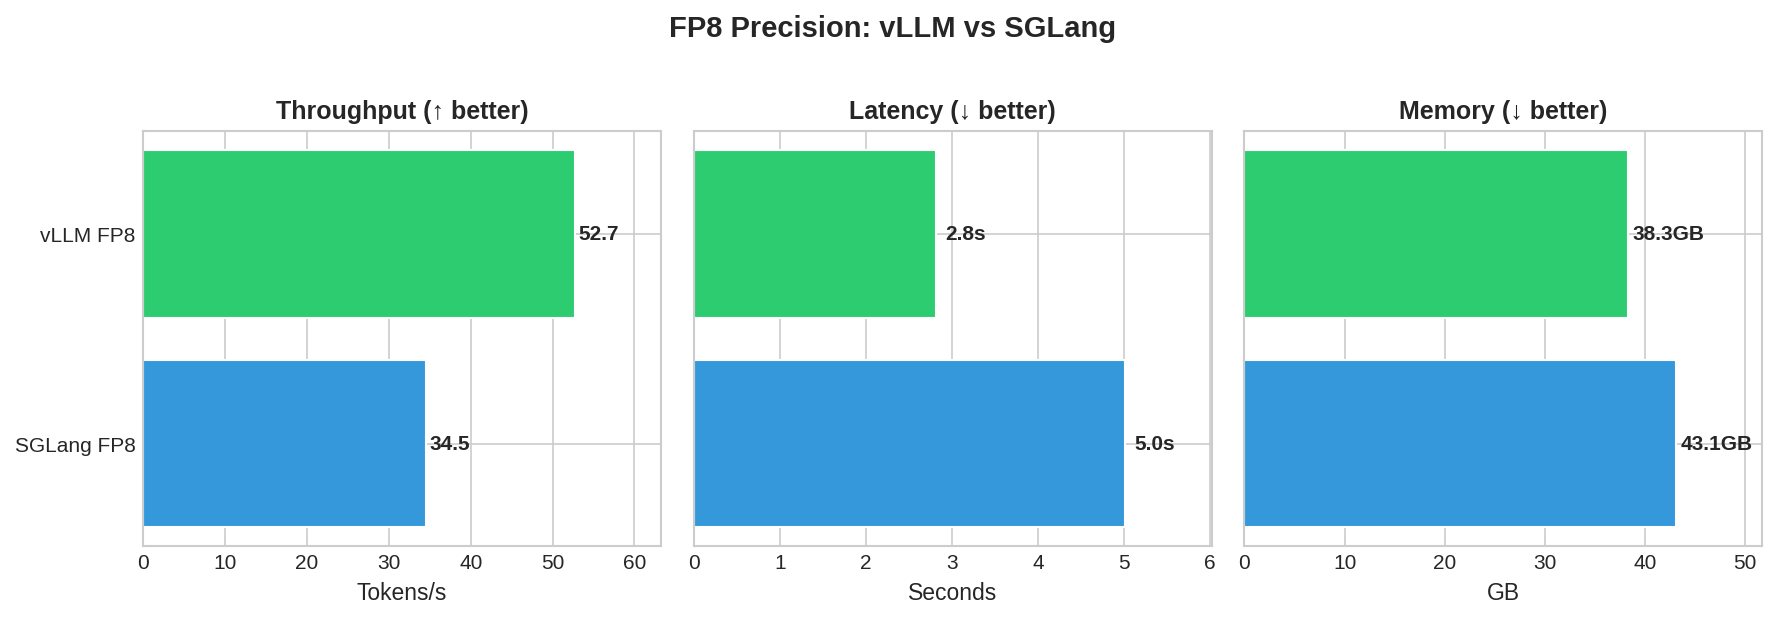
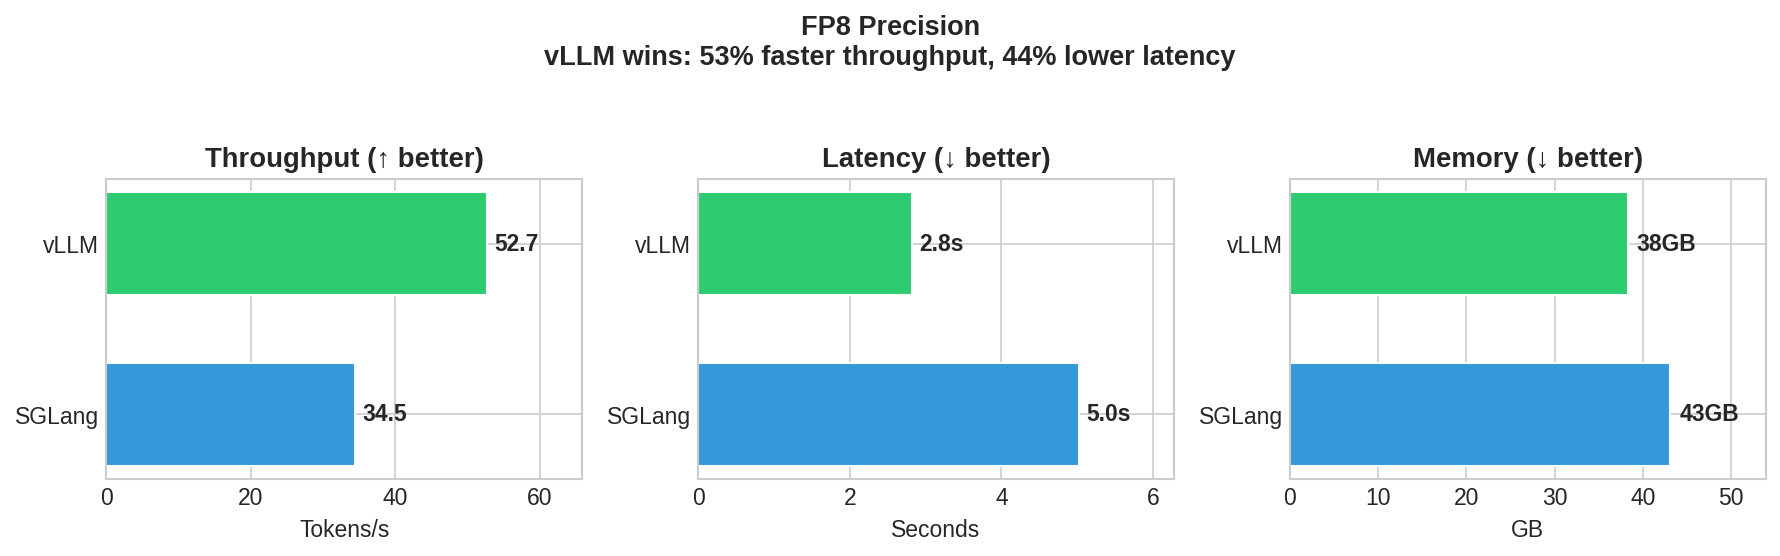
Fix graphs: remove single-bar charts, fix label overlaps
- Remove useless 8-bit and 4-bit single-bar graphs
- Fix efficiency scatter label positioning (no more overlaps)
- Add winner labels to FP8 and BF16 comparison charts
- Simplify backend names in comparison charts (vLLM vs SGLang)
- Add quadrant labels (BEST/WORST) to efficiency scatter

diff --git a/scripts/generate_graphs.py b/scripts/generate_graphs.py
@@ -6,95 +6,96 @@ import numpy as np
 
 # Benchmark data by precision category
 data_fp8 = {
-    'vLLM FP8': {'throughput': 52.7, 'latency': 2819, 'memory': 38.3},
-    'SGLang FP8': {'throughput': 34.5, 'latency': 5017, 'memory': 43.1},
+    'vLLM': {'throughput': 52.7, 'latency': 2.82, 'memory': 38.3},
+    'SGLang': {'throughput': 34.5, 'latency': 5.02, 'memory': 43.1},
 }
 
 data_bf16 = {
-    'vLLM BF16': {'throughput': 38.6, 'latency': 3658, 'memory': 38.2},
-    'SGLang BF16': {'throughput': 29.8, 'latency': 5458, 'memory': 43.1},
-    'Ollama F16': {'throughput': 6.6, 'latency': 4423, 'memory': 12.1},
+    'vLLM': {'throughput': 38.6, 'latency': 3.66, 'memory': 38.2},
+    'SGLang': {'throughput': 29.8, 'latency': 5.46, 'memory': 43.1},
+    'Ollama F16': {'throughput': 6.6, 'latency': 4.42, 'memory': 12.1},
 }
 
-data_8bit = {
-    'Ollama Q8': {'throughput': 8.0, 'latency': 4081, 'memory': 8.4},
-}
-
-data_4bit = {
-    'Ollama Q4': {'throughput': 52.6, 'latency': 4891, 'memory': 13.8},
-}
-
-# All data combined
-data_all = {
-    'vLLM FP8': {'throughput': 52.7, 'latency': 2819, 'memory': 38.3, 'precision': 'FP8'},
-    'Ollama Q4': {'throughput': 52.6, 'latency': 4891, 'memory': 13.8, 'precision': '4-bit'},
-    'vLLM BF16': {'throughput': 38.6, 'latency': 3658, 'memory': 38.2, 'precision': 'BF16'},
-    'SGLang FP8': {'throughput': 34.5, 'latency': 5017, 'memory': 43.1, 'precision': 'FP8'},
-    'SGLang BF16': {'throughput': 29.8, 'latency': 5458, 'memory': 43.1, 'precision': 'BF16'},
-    'Ollama Q8': {'throughput': 8.0, 'latency': 4081, 'memory': 8.4, 'precision': '8-bit'},
-    'Ollama F16': {'throughput': 6.6, 'latency': 4423, 'memory': 12.1, 'precision': 'BF16'},
-}
-
-# Color scheme by backend
-colors = {
-    'vLLM FP8': '#2ecc71',
-    'vLLM BF16': '#27ae60',
-    'SGLang FP8': '#3498db',
-    'SGLang BF16': '#2980b9',
-    'Ollama Q4': '#e74c3c',
-    'Ollama Q8': '#c0392b',
-    'Ollama F16': '#e67e22',
-}
+# All data combined for overall chart
+data_all = [
+    ('vLLM FP8', 52.7, 2.82, 38.3, '#2ecc71'),
+    ('Ollama Q4', 52.6, 4.89, 13.8, '#e74c3c'),
+    ('vLLM BF16', 38.6, 3.66, 38.2, '#27ae60'),
+    ('SGLang FP8', 34.5, 5.02, 43.1, '#3498db'),
+    ('SGLang BF16', 29.8, 5.46, 43.1, '#2980b9'),
+    ('Ollama Q8', 8.0, 4.08, 8.4, '#c0392b'),
+    ('Ollama F16', 6.6, 4.42, 12.1, '#e67e22'),
+]
 
 plt.style.use('seaborn-v0_8-whitegrid')
+plt.rcParams['font.size'] = 11
 
 
-def create_precision_chart(data, title, filename, figsize=(8, 4)):
-    """Create a combined throughput + latency chart for a precision category."""
+def create_comparison_chart(data, title, filename, winner_label=None):
+    """Create a comparison chart for a precision category."""
     backends = list(data.keys())
     throughputs = [data[b]['throughput'] for b in backends]
-    latencies = [data[b]['latency'] / 1000 for b in backends]
+    latencies = [data[b]['latency'] for b in backends]
     memories = [data[b]['memory'] for b in backends]
-    bar_colors = [colors[b] for b in backends]
 
-    fig, axes = plt.subplots(1, 3, figsize=(figsize[0] * 1.5, figsize[1]), dpi=150)
+    # Colors: green for vLLM (winner), blue for SGLang, orange for Ollama
+    colors = []
+    for b in backends:
+        if 'vLLM' in b:
+            colors.append('#2ecc71')
+        elif 'SGLang' in b:
+            colors.append('#3498db')
+        else:
+            colors.append('#e67e22')
+
+    fig, axes = plt.subplots(1, 3, figsize=(12, 3.5), dpi=150)
+
+    # Sort by throughput for display
+    sorted_idx = np.argsort(throughputs)[::-1]
+    sorted_backends = [backends[i] for i in sorted_idx]
+    sorted_throughputs = [throughputs[i] for i in sorted_idx]
+    sorted_latencies = [latencies[i] for i in sorted_idx]
+    sorted_memories = [memories[i] for i in sorted_idx]
+    sorted_colors = [colors[i] for i in sorted_idx]
 
     # Throughput chart
     ax1 = axes[0]
-    bars1 = ax1.barh(backends, throughputs, color=bar_colors, edgecolor='white')
-    for bar, val in zip(bars1, throughputs):
-        ax1.text(val + 0.5, bar.get_y() + bar.get_height()/2, f'{val:.1f}',
-                 va='center', fontsize=10, fontweight='bold')
-    ax1.set_xlabel('Tokens/s', fontsize=11)
-    ax1.set_title('Throughput (↑ better)', fontsize=12, fontweight='bold')
-    ax1.set_xlim(0, max(throughputs) * 1.2)
+    bars1 = ax1.barh(sorted_backends, sorted_throughputs, color=sorted_colors, edgecolor='white', height=0.6)
+    for bar, val in zip(bars1, sorted_throughputs):
+        ax1.text(val + 1, bar.get_y() + bar.get_height()/2, f'{val:.1f}',
+                 va='center', fontsize=11, fontweight='bold')
+    ax1.set_xlabel('Tokens/s')
+    ax1.set_title('Throughput (↑ better)', fontweight='bold')
+    ax1.set_xlim(0, max(sorted_throughputs) * 1.25)
     ax1.invert_yaxis()
 
     # Latency chart
     ax2 = axes[1]
-    bars2 = ax2.barh(backends, latencies, color=bar_colors, edgecolor='white')
-    for bar, val in zip(bars2, latencies):
+    bars2 = ax2.barh(sorted_backends, sorted_latencies, color=sorted_colors, edgecolor='white', height=0.6)
+    for bar, val in zip(bars2, sorted_latencies):
         ax2.text(val + 0.1, bar.get_y() + bar.get_height()/2, f'{val:.1f}s',
-                 va='center', fontsize=10, fontweight='bold')
-    ax2.set_xlabel('Seconds', fontsize=11)
-    ax2.set_title('Latency (↓ better)', fontsize=12, fontweight='bold')
-    ax2.set_xlim(0, max(latencies) * 1.2)
+                 va='center', fontsize=11, fontweight='bold')
+    ax2.set_xlabel('Seconds')
+    ax2.set_title('Latency (↓ better)', fontweight='bold')
+    ax2.set_xlim(0, max(sorted_latencies) * 1.25)
     ax2.invert_yaxis()
-    ax2.set_yticklabels([])
 
     # Memory chart
     ax3 = axes[2]
-    bars3 = ax3.barh(backends, memories, color=bar_colors, edgecolor='white')
-    for bar, val in zip(bars3, memories):
-        ax3.text(val + 0.5, bar.get_y() + bar.get_height()/2, f'{val:.1f}GB',
-                 va='center', fontsize=10, fontweight='bold')
-    ax3.set_xlabel('GB', fontsize=11)
-    ax3.set_title('Memory (↓ better)', fontsize=12, fontweight='bold')
-    ax3.set_xlim(0, max(memories) * 1.2)
+    bars3 = ax3.barh(sorted_backends, sorted_memories, color=sorted_colors, edgecolor='white', height=0.6)
+    for bar, val in zip(bars3, sorted_memories):
+        ax3.text(val + 1, bar.get_y() + bar.get_height()/2, f'{val:.0f}GB',
+                 va='center', fontsize=11, fontweight='bold')
+    ax3.set_xlabel('GB')
+    ax3.set_title('Memory (↓ better)', fontweight='bold')
+    ax3.set_xlim(0, max(sorted_memories) * 1.25)
     ax3.invert_yaxis()
-    ax3.set_yticklabels([])
 
-    fig.suptitle(title, fontsize=14, fontweight='bold', y=1.02)
+    if winner_label:
+        fig.suptitle(f'{title}\n{winner_label}', fontsize=13, fontweight='bold', y=1.05)
+    else:
+        fig.suptitle(title, fontsize=13, fontweight='bold', y=1.02)
+
     plt.tight_layout()
     plt.savefig(f'assets/{filename}', bbox_inches='tight', facecolor='white')
     plt.close()
@@ -103,49 +104,46 @@ def create_precision_chart(data, title, filename, figsize=(8, 4)):
 
 def create_overall_comparison():
     """Create overall comparison chart sorted by throughput."""
-    # Sort by throughput
-    sorted_backends = sorted(data_all.keys(), key=lambda x: data_all[x]['throughput'], reverse=True)
-    throughputs = [data_all[b]['throughput'] for b in sorted_backends]
-    latencies = [data_all[b]['latency'] / 1000 for b in sorted_backends]
-    memories = [data_all[b]['memory'] for b in sorted_backends]
-    bar_colors = [colors[b] for b in sorted_backends]
-
     fig, axes = plt.subplots(1, 3, figsize=(14, 5), dpi=150)
+
+    backends = [d[0] for d in data_all]
+    throughputs = [d[1] for d in data_all]
+    latencies = [d[2] for d in data_all]
+    memories = [d[3] for d in data_all]
+    colors = [d[4] for d in data_all]
 
     # Throughput
     ax1 = axes[0]
-    bars1 = ax1.barh(sorted_backends, throughputs, color=bar_colors, edgecolor='white')
+    bars1 = ax1.barh(backends, throughputs, color=colors, edgecolor='white', height=0.7)
     for bar, val in zip(bars1, throughputs):
-        ax1.text(val + 0.5, bar.get_y() + bar.get_height()/2, f'{val:.1f}',
-                 va='center', fontsize=9, fontweight='bold')
-    ax1.set_xlabel('Tokens/s', fontsize=11)
-    ax1.set_title('Throughput (↑ better)', fontsize=12, fontweight='bold')
-    ax1.set_xlim(0, max(throughputs) * 1.15)
+        ax1.text(val + 1, bar.get_y() + bar.get_height()/2, f'{val:.1f}',
+                 va='center', fontsize=10, fontweight='bold')
+    ax1.set_xlabel('Tokens/s')
+    ax1.set_title('Throughput (↑ better)', fontweight='bold')
+    ax1.set_xlim(0, max(throughputs) * 1.2)
     ax1.invert_yaxis()
 
     # Latency
     ax2 = axes[1]
-    bars2 = ax2.barh(sorted_backends, latencies, color=bar_colors, edgecolor='white')
+    bars2 = ax2.barh(backends, latencies, color=colors, edgecolor='white', height=0.7)
     for bar, val in zip(bars2, latencies):
         ax2.text(val + 0.1, bar.get_y() + bar.get_height()/2, f'{val:.1f}s',
-                 va='center', fontsize=9, fontweight='bold')
-    ax2.set_xlabel('Seconds', fontsize=11)
-    ax2.set_title('Latency (↓ better)', fontsize=12, fontweight='bold')
-    ax2.set_xlim(0, max(latencies) * 1.15)
+                 va='center', fontsize=10, fontweight='bold')
+    ax2.set_xlabel('Seconds')
+    ax2.set_title('Latency (↓ better)', fontweight='bold')
+    ax2.set_xlim(0, max(latencies) * 1.2)
     ax2.invert_yaxis()
-    ax2.set_yticklabels([])
 
     # Memory
     ax3 = axes[2]
-    bars3 = ax3.barh(sorted_backends, memories, color=bar_colors, edgecolor='white')
+    bars3 = ax3.barh(backends, memories, color=colors, edgecolor='white', height=0.7)
     for bar, val in zip(bars3, memories):
-        ax3.text(val + 0.5, bar.get_y() + bar.get_height()/2, f'{val:.1f}GB',
-                 va='center', fontsize=9, fontweight='bold')
-    ax3.set_xlabel('GB', fontsize=11)
-    ax3.set_title('Memory (↓ better)', fontsize=12, fontweight='bold')
-    ax3.set_xlim(0, max(memories) * 1.15)
+        ax3.text(val + 1, bar.get_y() + bar.get_height()/2, f'{val:.0f}GB',
+                 va='center', fontsize=10, fontweight='bold')
+    ax3.set_xlabel('GB')
+    ax3.set_title('Memory (↓ better)', fontweight='bold')
+    ax3.set_xlim(0, max(memories) * 1.2)
     ax3.invert_yaxis()
-    ax3.set_yticklabels([])
 
     fig.suptitle('Overall Comparison (sorted by throughput)', fontsize=14, fontweight='bold', y=1.02)
     plt.tight_layout()
@@ -158,31 +156,47 @@ def create_efficiency_chart():
     """Create efficiency scatter plot."""
     fig, ax = plt.subplots(figsize=(10, 6), dpi=150)
 
-    for backend, d in data_all.items():
-        ax.scatter(d['memory'], d['throughput'], s=200, c=colors[backend],
-                   label=backend, edgecolors='white', linewidth=1.5, zorder=3)
+    for name, throughput, latency, memory, color in data_all:
+        ax.scatter(memory, throughput, s=300, c=color, edgecolors='white', linewidth=2, zorder=3)
 
-    # Add labels
-    for backend, d in data_all.items():
-        offset_x = 1 if d['memory'] < 30 else -8
-        offset_y = 1.5 if d['throughput'] > 20 else -2
-        ax.annotate(backend, (d['memory'], d['throughput']),
-                    xytext=(offset_x, offset_y), textcoords='offset points',
-                    fontsize=9, fontweight='bold')
+        # Position labels to avoid overlap
+        if name == 'Ollama Q4':
+            ax.annotate(name, (memory, throughput), xytext=(-60, 10), textcoords='offset points',
+                        fontsize=10, fontweight='bold')
+        elif name == 'vLLM FP8':
+            ax.annotate(name, (memory, throughput), xytext=(10, 5), textcoords='offset points',
+                        fontsize=10, fontweight='bold')
+        elif name == 'vLLM BF16':
+            ax.annotate(name, (memory, throughput), xytext=(10, -5), textcoords='offset points',
+                        fontsize=10, fontweight='bold')
+        elif name in ['SGLang FP8', 'SGLang BF16']:
+            offset = 5 if 'FP8' in name else -15
+            ax.annotate(name, (memory, throughput), xytext=(10, offset), textcoords='offset points',
+                        fontsize=10, fontweight='bold')
+        elif name == 'Ollama Q8':
+            ax.annotate(name, (memory, throughput), xytext=(10, 5), textcoords='offset points',
+                        fontsize=10, fontweight='bold')
+        elif name == 'Ollama F16':
+            ax.annotate(name, (memory, throughput), xytext=(10, -10), textcoords='offset points',
+                        fontsize=10, fontweight='bold')
 
     ax.set_xlabel('Peak GPU Memory (GB)', fontsize=12)
     ax.set_ylabel('Tokens per Second', fontsize=12)
     ax.set_title('Efficiency: Throughput vs Memory', fontsize=14, fontweight='bold')
 
-    # Quadrant annotations
-    ax.axhline(y=30, color='gray', linestyle='--', alpha=0.3)
-    ax.axvline(x=25, color='gray', linestyle='--', alpha=0.3)
-    ax.text(10, 55, 'Best\n(High throughput\nLow memory)', fontsize=9, alpha=0.6, ha='center')
-    ax.text(40, 5, 'Worst\n(Low throughput\nHigh memory)', fontsize=9, alpha=0.6, ha='center')
+    # Quadrant lines
+    ax.axhline(y=30, color='gray', linestyle='--', alpha=0.4)
+    ax.axvline(x=25, color='gray', linestyle='--', alpha=0.4)
+
+    # Quadrant labels
+    ax.text(8, 57, 'BEST\nHigh speed, Low memory', fontsize=10, ha='center',
+            color='#27ae60', fontweight='bold', alpha=0.8)
+    ax.text(42, 3, 'WORST\nLow speed, High memory', fontsize=10, ha='center',
+            color='#e74c3c', fontweight='bold', alpha=0.8)
 
     ax.set_xlim(0, 50)
-    ax.set_ylim(0, 60)
-    ax.legend(loc='center right', fontsize=9)
+    ax.set_ylim(0, 62)
+    ax.grid(True, alpha=0.3)
 
     plt.tight_layout()
     plt.savefig('assets/efficiency_scatter.png', bbox_inches='tight', facecolor='white')
@@ -191,11 +205,11 @@ def create_efficiency_chart():
 
 
 if __name__ == '__main__':
-    # Per-precision charts
-    create_precision_chart(data_fp8, 'FP8 Precision: vLLM vs SGLang', 'fp8_comparison.png')
-    create_precision_chart(data_bf16, 'BF16 Precision: vLLM vs SGLang vs Ollama', 'bf16_comparison.png')
-    create_precision_chart(data_8bit, '8-bit Precision: Ollama Q8', '8bit_comparison.png', figsize=(6, 2))
-    create_precision_chart(data_4bit, '4-bit Precision: Ollama Q4', '4bit_comparison.png', figsize=(6, 2))
+    # Per-precision comparison charts (only where there's actual competition)
+    create_comparison_chart(data_fp8, 'FP8 Precision', 'fp8_comparison.png',
+                           'vLLM wins: 53% faster throughput, 44% lower latency')
+    create_comparison_chart(data_bf16, 'BF16 Precision', 'bf16_comparison.png',
+                           'vLLM wins: 30% faster than SGLang, 6x faster than Ollama')
 
     # Overall charts
     create_overall_comparison()

diff --git a/README.md b/README.md
@@ -164,19 +164,11 @@ Test configuration: 5 videos, 4 frames each, 256 max tokens, 1 warmup + 5 benchm
 #### Overall Comparison
 ![Overall Comparison](assets/overall_comparison.png)
 
-#### By Precision Category
-
-**FP8: vLLM wins (53% faster)**
+#### FP8: vLLM vs SGLang
 ![FP8 Comparison](assets/fp8_comparison.png)
 
-**BF16: vLLM wins (30% faster)**
+#### BF16: vLLM vs SGLang vs Ollama
 ![BF16 Comparison](assets/bf16_comparison.png)
-
-**8-bit: Ollama Q8**
-![8-bit Comparison](assets/8bit_comparison.png)
-
-**4-bit: Ollama Q4 (best efficiency)**
-![4-bit Comparison](assets/4bit_comparison.png)
 
 #### Efficiency: Throughput vs Memory
 ![Efficiency Scatter](assets/efficiency_scatter.png)
